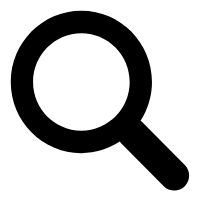
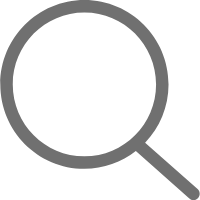
footGuide UI 0.2

diff --git a/src/components/footer/lfootGuide.vue b/src/components/footer/lfootGuide.vue
@@ -1,20 +1,28 @@
 <template>
     <section id='foot_guide'>
         <section @click = "gotoAddress({path: '/lhome', query: {geohash}})" class="guide_item">
-            <img src="../../images/homePage.png" class="icon_style">  
-            <span>首页</span>
+            <img v-if="selectedItem!=='home'" src="../../images/homePage.png" class="icon_style">  
+            <img v-else src="../../images/homePageSelected.png" class="icon_style"> 
+            <span v-if="selectedItem!=='home'" :style="{color: '#707070'}">首页</span>
+            <span v-else :style="{color: '#1296db'}">首页</span>
         </section>
         <section @click = "gotoAddress({path: '/lsearch/' + geohash})" class="guide_item">
-            <img src="../../images/search.png" class="icon_style">  
-            <span>搜索</span>
+            <img v-if="selectedItem!=='search'" src="../../images/search.png" class="icon_style">  
+            <img v-else src="../../images/searchSelected.png" class="icon_style"> 
+            <span v-if="selectedItem!=='search'" :style="{color: '#707070'}">搜索</span>
+            <span v-else :style="{color: '#1296db'}">搜索</span>
         </section>
-        <section @click = "gotoAddress('/lorder')" class="guide_item">
-            <img src="../../images/tenement.png" class="icon_style">  
-            <span>租房</span>
+        <section @click = "gotoAddress({path: '/lorder'})" class="guide_item">
+            <img v-if="selectedItem!=='order'" src="../../images/tenement.png" class="icon_style">  
+            <img v-else src="../../images/tenementSelected.png" class="icon_style"> 
+            <span v-if="selectedItem!=='order'" :style="{color: '#707070'}">租房</span>
+            <span v-else :style="{color: '#1296db'}">租房</span>
         </section>
-        <section @click = "gotoAddress('/lprofile')" class="guide_item">
-            <img src="../../images/self.png" class="icon_style">  
-            <span>我的</span>
+        <section @click = "gotoAddress({path: '/lprofile'})" class="guide_item">
+            <img v-if="selectedItem!=='profile'" src="../../images/self.png" class="icon_style">  
+            <img v-else src="../../images/selfSelected.png" class="icon_style"> 
+            <span v-if="selectedItem!=='profile'" :style="{color: '#707070'}">租房</span>
+            <span v-else :style="{color: '#1296db'}">我的</span>
         </section>
     </section>
 </template>
@@ -24,7 +32,6 @@
     export default {
     	data(){
             return{
-                
             }
         },
         created(){
@@ -38,6 +45,7 @@
                 'geohash'
             ]),
         },
+        	props: ['selectedItem'],
         methods: {
         	gotoAddress(path){
         		this.$router.push(path)
@@ -69,12 +77,12 @@
     	flex-direction: column;
     	align-items: center;
 		.icon_style{
-			@include wh(.8rem, .8rem);
-			margin-bottom: .2rem;
+			@include wh(.9rem, .9rem);
 			margin-top: .3rem;
 			fill: #ccc;
 		}
 		span{
+            margin-top: 0.1rem;
 			@include sc(.45rem, #666);
 		}
     }

diff --git a/src/page/search/lsearch.vue b/src/page/search/lsearch.vue
@@ -50,7 +50,7 @@
             <footer class="clear_history" @click="clearAllHistory">清空搜索历史</footer>
         </section>
         <div class="search_none" v-if="emptyResult">很抱歉！无搜索结果</div>
-        <foot-guide></foot-guide>
+        <foot-guide selectedItem='search'></foot-guide>
     </div>
 </template>
 

diff --git a/src/page/profile/lprofile.vue b/src/page/profile/lprofile.vue
@@ -131,7 +131,7 @@
                 </router-link> -->
             </section>
         </section>
-        <foot-guide></foot-guide>
+        <foot-guide selectedItem='profile'></foot-guide>
         <transition name="router-slid" mode="out-in">
             <router-view></router-view>
         </transition>

diff --git a/src/page/order/tenement.vue b/src/page/order/tenement.vue
@@ -7,7 +7,7 @@
     	<div v-else class="tenement_list_container">
 	    	<tenement-list></tenement-list>
     	</div>
-    	<foot-guide></foot-guide>
+    	<foot-guide selectedItem='order'></foot-guide>
     </div>    	
 </template>
 

diff --git a/src/page/home/lhome.vue b/src/page/home/lhome.vue
@@ -19,7 +19,7 @@
 	            </figure>
 	        </a>
         </section>
-        <foot-guide></foot-guide>
+        <foot-guide selectedItem='home'></foot-guide>
     </div>
 </template>
 
